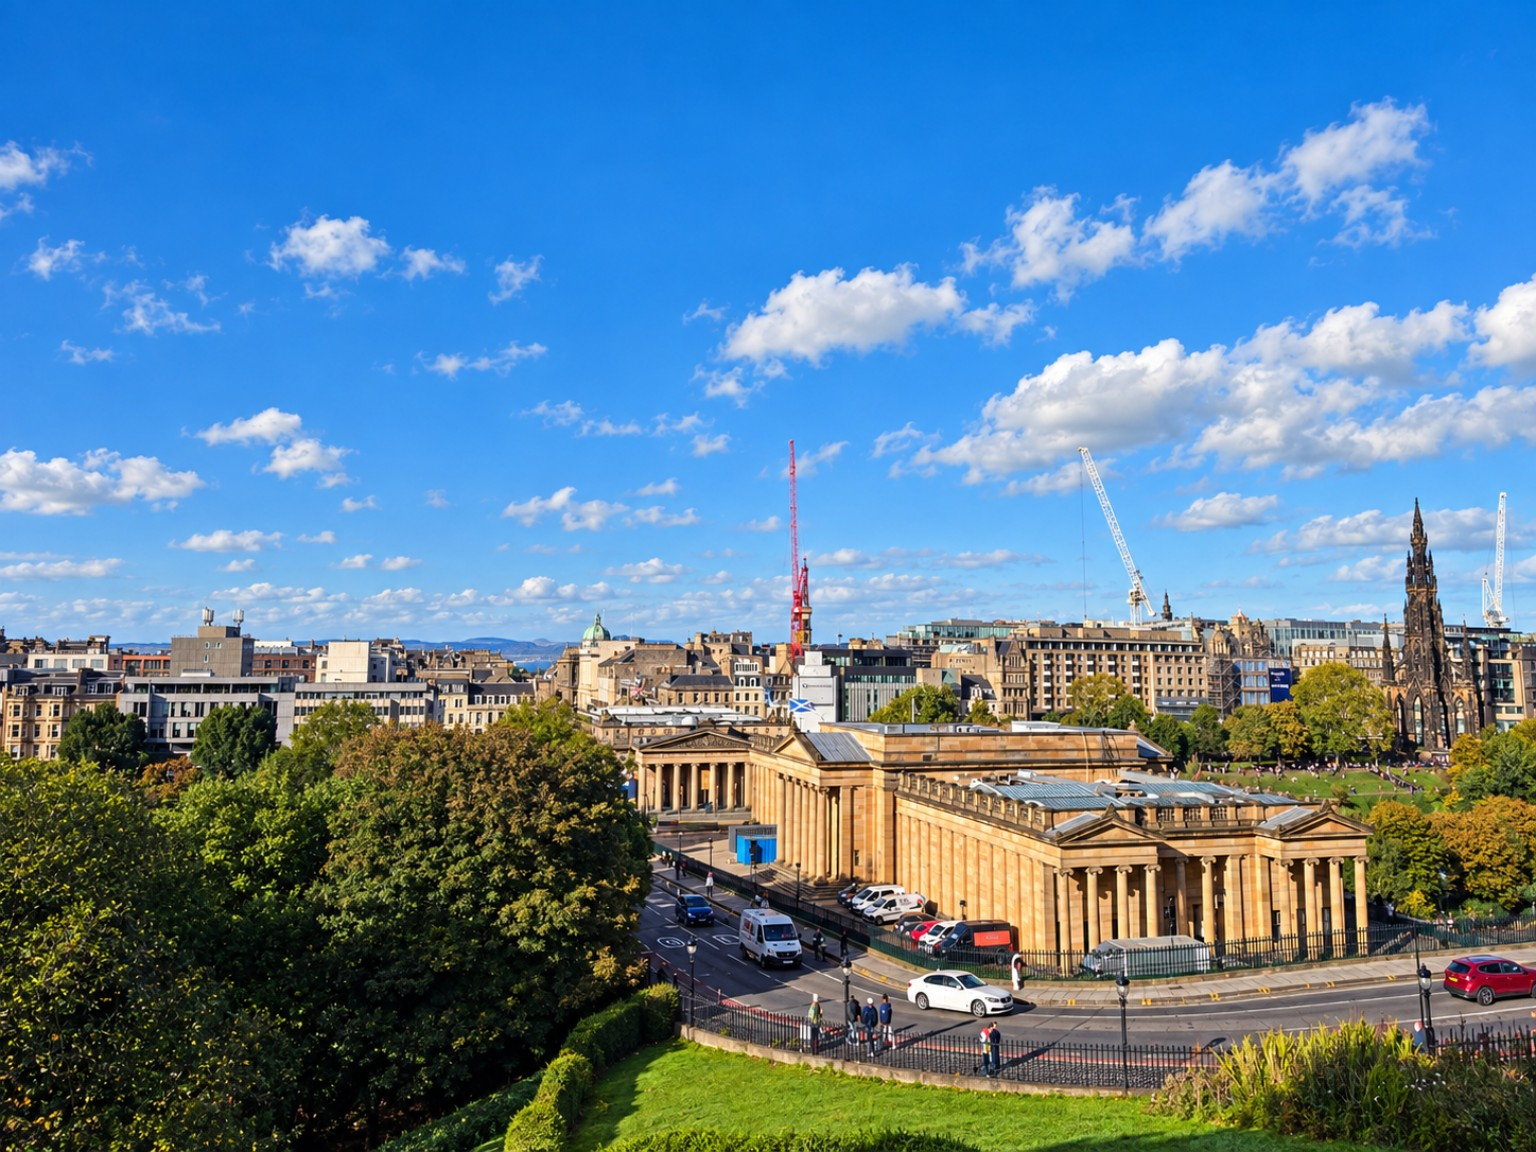
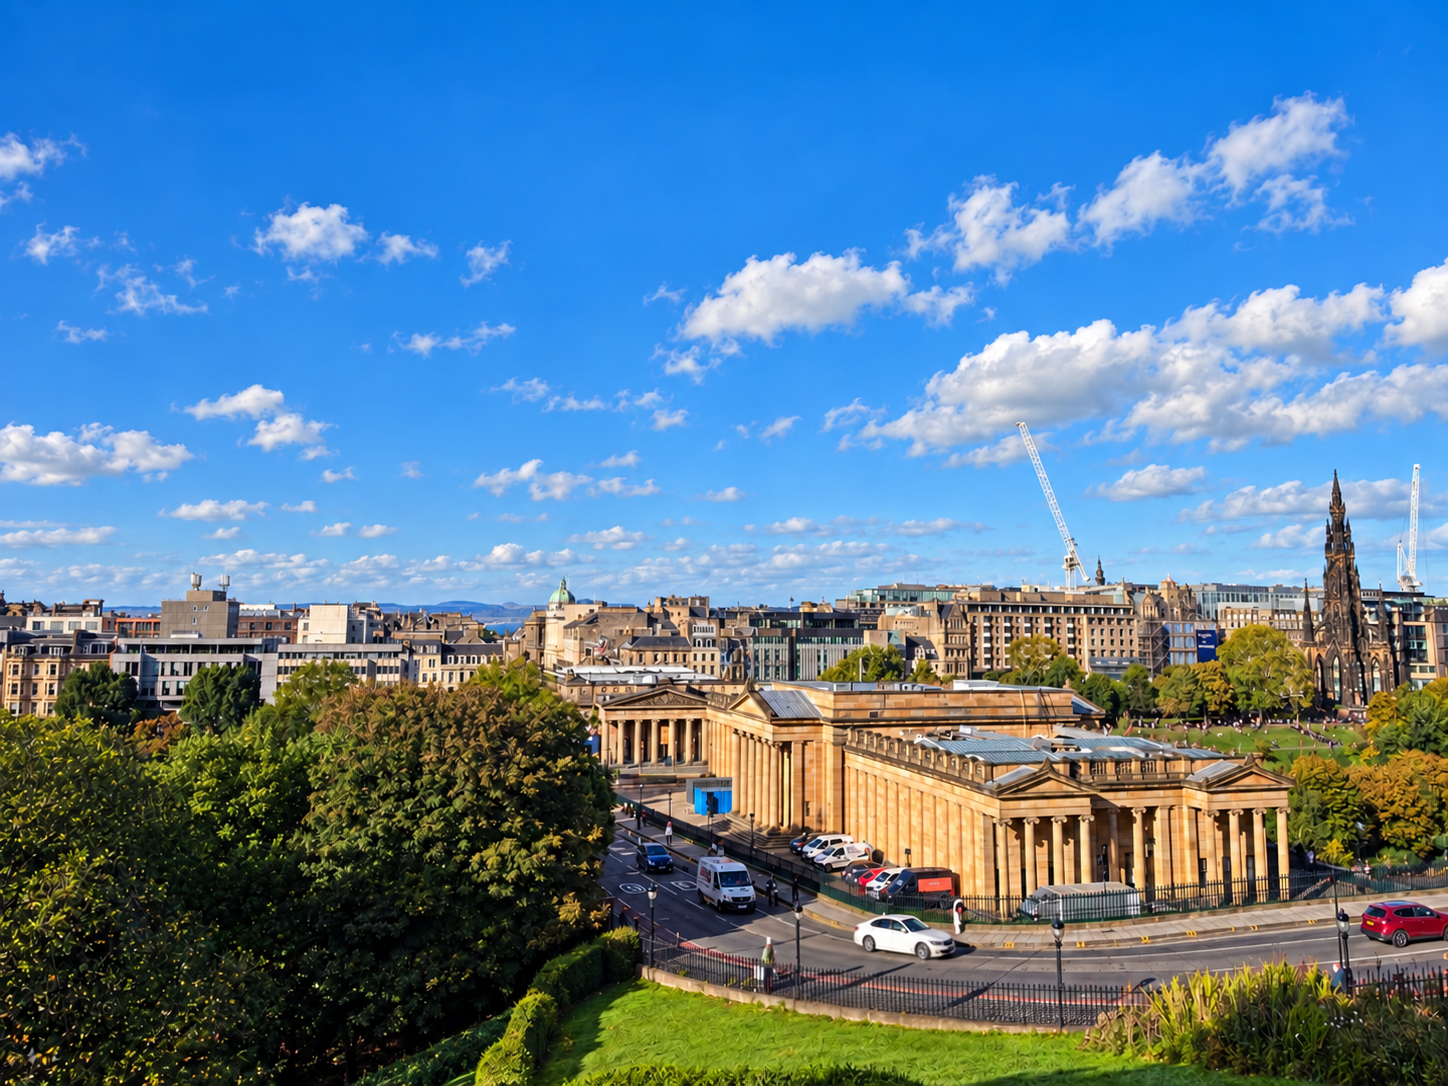
Replace New College uphill and city view photos

diff --git a/places/new-college.html b/places/new-college.html
@@ -7,7 +7,7 @@
 <h2>더 마운드를 오르며</h2>
 <p>길을 오르기 시작하면 왼쪽으로 웅장한 건물이 눈에 들어옵니다. 스코틀랜드 은행(Bank of Scotland) 본사 건물입니다. 1806년에 완성된 이 건물은 더 마운드 위에서 에든버러 도심을 내려다보듯 자리하고 있습니다. 지붕 위로 솟아오른 둥근 돔이 독특한데, 에든버러에서는 보기 드문 형태라 올라가는 길에 자연스럽게 시선이 머뭅니다.</p>
 <p>오른쪽으로는 뾰족한 고딕 양식의 첨탑이 하늘을 향해 솟아 있습니다. 뉴 칼리지(New College)입니다.</p>
-<figure class="story-photo"><img src="/assets/new-college/new-college-exterior.png?v=20261002-1" width="1536" height="1152" loading="lazy" decoding="async" alt="더 마운드에서 올려다본 뉴 칼리지와 에든버러 올드타운"></figure>
+<figure class="story-photo"><img src="/assets/new-college/new-college-exterior.png?v=20261002-2" width="1536" height="1024" loading="lazy" decoding="async" alt="더 마운드에서 올려다본 뉴 칼리지와 에든버러 올드타운"></figure>
 <p>그런데 이 건물에는 단순한 대학 건물 이상의 이야기가 담겨 있습니다.</p>
 <h2>교회가 둘로 갈라진 날</h2>
 <p>1843년, 스코틀랜드 교회 역사에서 가장 극적인 사건이 일어납니다.</p>
@@ -22,6 +22,6 @@
 <h2>안마당에서 바라보는 에든버러</h2>
 <p>뉴 칼리지 안마당에 서서 입구 아치 너머로 시선을 돌리면 에든버러가 아래로 펼쳐집니다.</p>
 <p>프린스 스트리트의 반듯한 건물들, 뉴타운의 정돈된 지붕들, 그리고 그 너머로 희미하게 빛나는 퍼스 만(Firth of Forth)의 물빛. 날이 맑은 날에는 건너편 파이프(Fife) 지역의 능선까지 눈에 들어옵니다. 아까 아래에서 올려다보던 도시가, 이제 내려다보는 도시로 바뀝니다. 에든버러 성 안에서는 이 전경이 한층 더 넓게 펼쳐질 테지만, 이 자리에서 잠깐 멈춰 바라보는 것만으로도 충분히 값진 풍경입니다.</p>
-<figure class="story-photo"><img src="/assets/new-college/new-college-view.png?v=20261002-1" width="1536" height="1152" loading="lazy" decoding="async" alt="더 마운드에서 내려다본 스코틀랜드 국립미술관과 에든버러 도심 풍경"></figure>
+<figure class="story-photo"><img src="/assets/new-college/new-college-view.png?v=20261002-2" width="1536" height="1024" loading="lazy" decoding="async" alt="더 마운드에서 내려다본 스코틀랜드 국립미술관과 에든버러 도심 풍경"></figure>
 <p>이제 뉴 칼리지를 나와 에든버러 성으로 향합니다.</p>
 <div class="action-buttons"><button class="share-btn" type="button">↗ 공유하기</button><a class="course-hub" href="/#tour">워킹투어 코스 전체 보기</a></div><nav class="page-nav context-nav context-nav-tour tour-course-nav" data-nav-system="tour" aria-label="워킹투어 코스 이전·다음" hidden><a class="place-prev" href="/places/new-town.html#tour-nav"><span class="place-nav-arrow" aria-hidden="true">←</span><span class="place-nav-label">에든버러 뉴타운</span></a><a class="place-next" href="/places/edinburgh-castle.html#tour-nav"><span class="place-nav-label">에든버러 성</span><span class="place-nav-arrow" aria-hidden="true">→</span></a></nav><nav class="page-nav context-nav context-nav-place place-browse-nav next-only" data-nav-system="place" aria-label="에든버러 성 주변 이전·다음 장소" hidden><a class="place-next" href="/places/writers-museum.html#place-nav"><span class="place-nav-label">작가박물관</span><span class="place-nav-arrow" aria-hidden="true">→</span></a></nav><div class="kakao-action"><a class="kakao-btn" href="https://open.kakao.com/o/snuaTFyg" target="_blank" rel="noopener">카카오톡 문의</a></div></article></main><footer><div class="wrap foot"><a href="/">에든버러 워킹투어</a></div></footer><script src="/assets/tour-course-data.js?v=20260926-6"></script><script src="/assets/site-header.js?v=20260930-9" defer></script></body></html>
